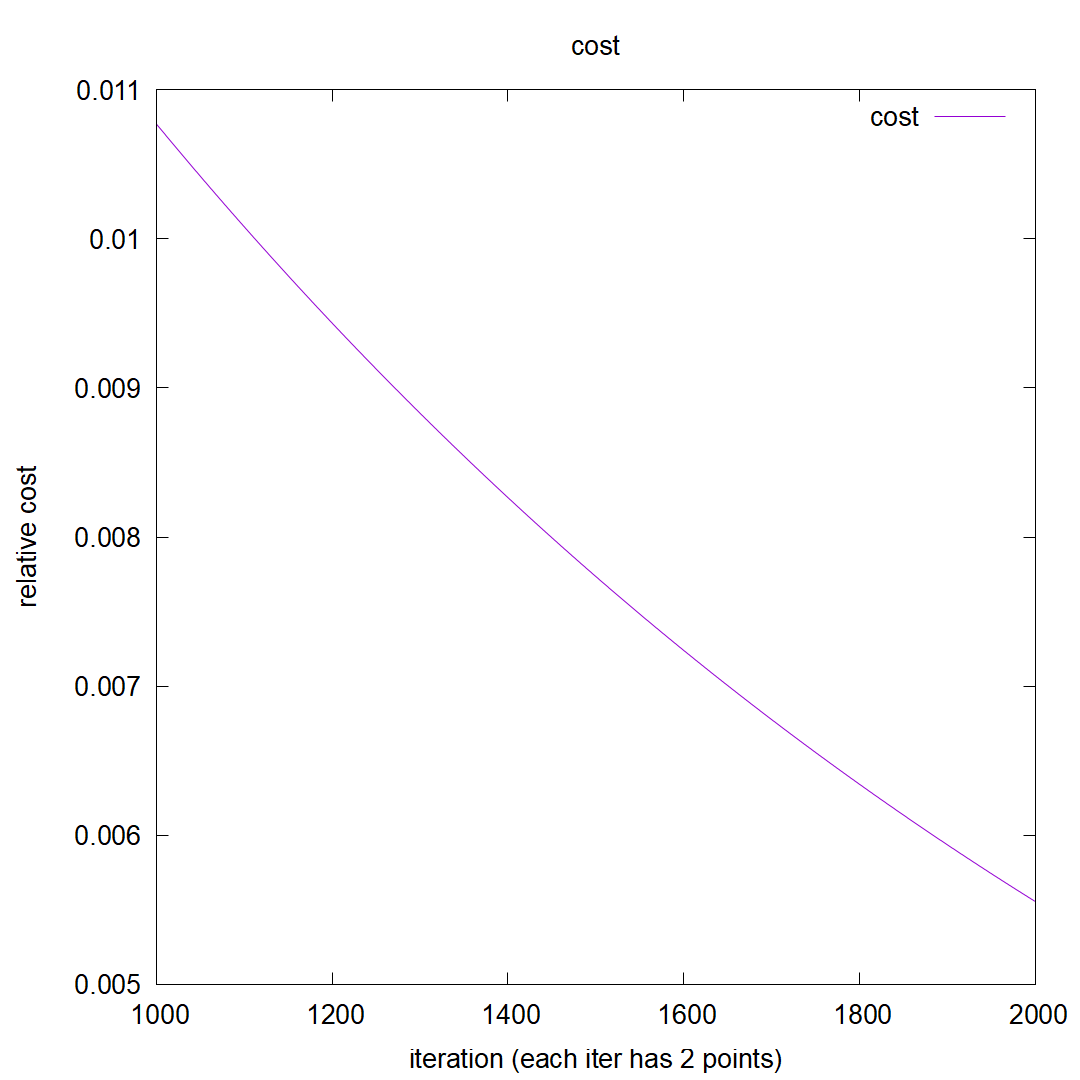
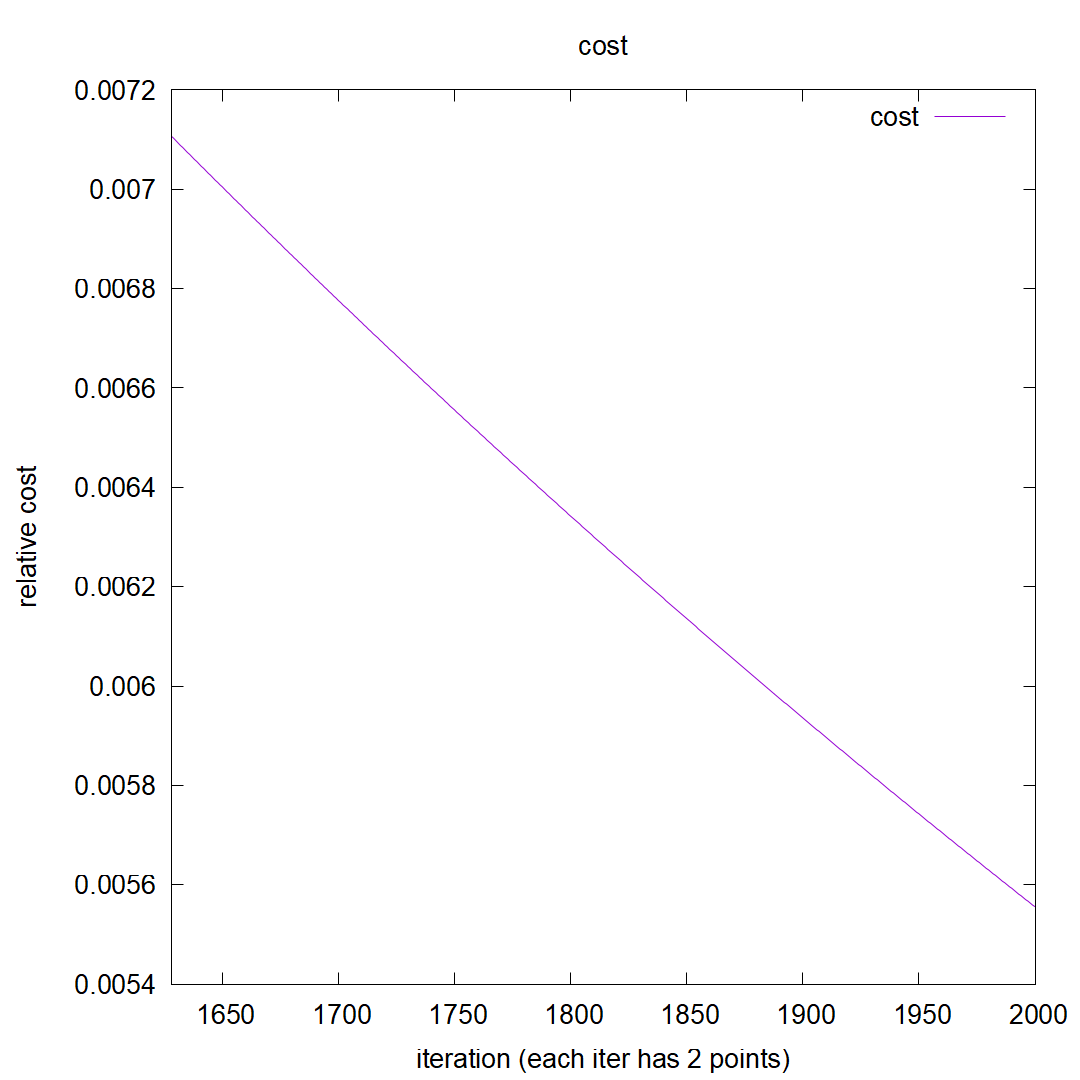
Fixed algorithm approaching direction bug and add add plot border adjustment functionality

diff --git a/src/hw4/lib/iter.c b/src/hw4/lib/iter.c
@@ -75,8 +75,15 @@ void iter_history_iterate(iter_history_t* iter_history, config_t* config, config
         if (config->debug_mode == true){
             printf("a1: %lf ->b1: %lf ->c1: %lf ->a2: %lf ->b2: %lf ->c2: %lf ->d2_point.x: %lf ->d2_point.y: %lf ->next_x: %lf ->next_y: %lf\n", a1, b1, c1, a2, b2, c2, d2_point.x, d2_point.y, next_x, next_y);
         }
-        if (((next_x > config->plot_x_min) || (next_x < config->plot_x_max) || (next_y > config->plot_y_min) || (next_y < config->plot_y_max)) && (iter_history->iter_min_set == false)){
-            iter_history->iter_min = iter;
+        if (((next_x > config->plot_x_min) && (next_y > config->plot_y_min) && (next_x < config->plot_x_max) && (next_y < config->plot_y_max)) || (iter_history->iter_min_set == true)){
+            if (iter_history->iter_min_set == false){
+                iter_history->iter_min = iter_history->cnt;
+                iter_history->iter_min_set = true;
+                printf("entering plot view at cnt: %d\n", iter_history->iter_min);
+                if (config->debug_mode) {
+                    printf("iter_history->iter_min_set: %d\n", iter_history->iter_min_set);
+                }
+            }
         }
     }
 }

diff --git a/src/hw4/lib/plot_iter.c b/src/hw4/lib/plot_iter.c
@@ -40,8 +40,8 @@ FILE* iter_plot_open(config_t* config){
     fprintf(gnuplot, "set title \"iteration points\"\n");
     fprintf(gnuplot, "set xlabel \"x axis\"\n");
     fprintf(gnuplot, "set ylabel \"y axis\"\n");
-    fprintf(gnuplot, "set xrange [%g:%g]\n", config->plot_x_min, config->plot_x_max);
-    fprintf(gnuplot, "set yrange [%g:%g]\n", config->plot_y_min, config->plot_y_max);
+    fprintf(gnuplot, "set xrange [%lf:%lf]\n", config->plot_x_min, config->plot_x_max);
+    fprintf(gnuplot, "set yrange [%lf:%lf]\n", config->plot_y_min, config->plot_y_max);
     return gnuplot;
 }
 
@@ -74,8 +74,8 @@ void iter_plot_reset(FILE* gnuplot, config_t* config){
     fprintf(gnuplot, "set title \"iteration points\"\n");
     fprintf(gnuplot, "set xlabel \"x axis\"\n");
     fprintf(gnuplot, "set ylabel \"y axis\"\n");
-    fprintf(gnuplot, "set xrange [%g:%g]\n", config->plot_x_min, config->plot_x_max);
-    fprintf(gnuplot, "set yrange [%g:%g]\n", config->plot_y_min, config->plot_y_max);
+    fprintf(gnuplot, "set xrange [%lf:%lf]\n", config->plot_x_min, config->plot_x_max);
+    fprintf(gnuplot, "set yrange [%lf:%lf]\n", config->plot_y_min, config->plot_y_max);
     return;
 }
 

diff --git a/src/hw4/lib/plot_cost.c b/src/hw4/lib/plot_cost.c
@@ -47,7 +47,7 @@ void cost_plot_update(FILE* gnuplot, config_t* config, iter_history_t* iter_hist
     fflush(cost_tmp);
     // Add lines and points to gnuplot
     fprintf(gnuplot, "plot \"%s\" with lines title \"cost\"\n", config->cost_tmp);
-    fprintf(gnuplot, "set xrange [%g:%g]\n", iter_history->iter_min, iter_history->cnt);
+    fprintf(gnuplot, "set xrange [%d:%d]\n", iter_history->iter_min, iter_history->cnt);
     fflush(gnuplot);
     return;
 }
@@ -59,7 +59,7 @@ void cost_plot_reset(FILE* gnuplot, config_t* config, iter_history_t* iter_histo
     fprintf(gnuplot, "set title \"cost\"\n");
     fprintf(gnuplot, "set xlabel \"iteration (each iter has %d points)\"\n", config->line_cnt);
     fprintf(gnuplot, "set ylabel \"relative cost\"\n");
-    fprintf(gnuplot, "set xrange [%g:%g]\n", iter_history->iter_min, iter_history->cnt);
+    fprintf(gnuplot, "set xrange [%d:%d]\n", iter_history->iter_min, iter_history->cnt);
     return;
 }
 

diff --git a/src/hw4/main.c b/src/hw4/main.c
@@ -47,6 +47,12 @@ int main (int argc, char *argv[]) {
         }
     }
 
+    if (iter_history.iter_min_set) {
+        printf("iteration enters plot view at cnt %d\n", iter_history.iter_min);
+    } else {
+        printf("iteration never enters plot view\n");
+    }
+
     iter_plot_reset(iter_gnuplot, &config);
     iter_plot_update(iter_gnuplot, &config, &config_lines, &iter_history, iter_file);
     cost_plot_reset(cost_gnuplot, &config, &iter_history);

diff --git a/src/hw4/lib/config_read.c b/src/hw4/lib/config_read.c
@@ -221,7 +221,7 @@ int config_parse(char *buf, config_t *config){
         return CONFIG_READ_STATUS_SUCCESS;
     }
     if (sscanf(buf, " plot_y_max = %s", dummy) == 1) {
-        config->plot_y_max = strtol(dummy, NULL, 10);
+        config->plot_y_max = strtod(dummy, NULL);
         config->param_cnt += 1;
         return CONFIG_READ_STATUS_SUCCESS;
     }
